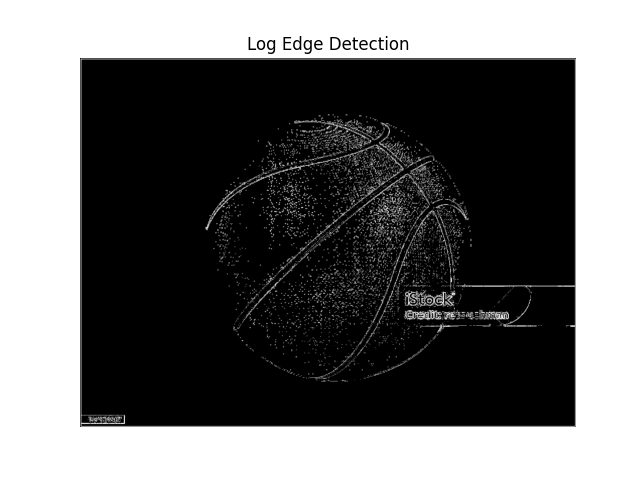
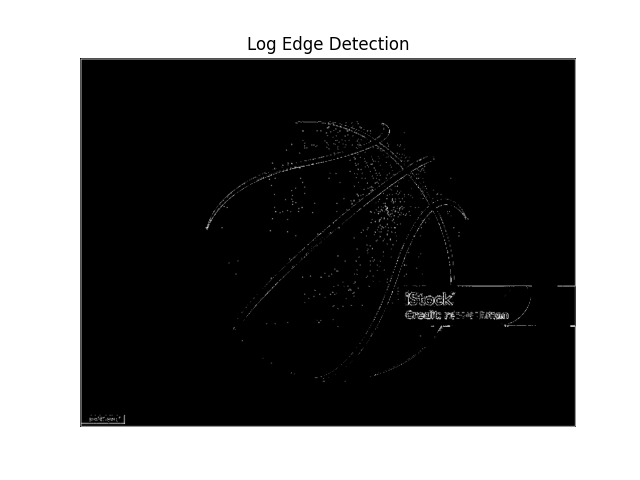
update log edge

diff --git a/2nd_assignment/log_edge.py b/2nd_assignment/log_edge.py
@@ -27,22 +27,18 @@ def log_edge(in_img_array: np.ndarray) -> np.ndarray:
     for i in range(1, result_img.shape[0] - 1):
         for j in range(1, result_img.shape[1] - 1):
             center = result_img[i, j]
-
-            # Only consider pixels with a strong enough response
             if abs(center) > threshold:
-                # Extract the 3x3 neighborhood
-                neighborhood = result_img[i - 1:i + 2, j - 1:j + 2]
-                for m in range(3):
-                    for n in range(3):
-                        if m == 1 and n == 1:
-                            continue  # Skip the center pixel
-                        neighbor_val = neighborhood[m, n]
-                        # Check for zero-crossing with sufficient difference
-                        if ((center > 0 > neighbor_val) or (center < 0 < neighbor_val)) and \
-                           (abs(center - neighbor_val) > threshold):
-                            out_img_array[i, j] = 1
-                            break
-                    if out_img_array[i, j] == 1:
+                # Symmetrical pairs of pixels around the center pixel
+                symmetric_pairs = [
+                    (result_img[i, j - 1], result_img[i, j + 1]),  # left - right
+                    (result_img[i - 1, j], result_img[i + 1, j]),  # up - down
+                    (result_img[i - 1, j - 1], result_img[i + 1, j + 1]),  # diagonally \
+                    (result_img[i - 1, j + 1], result_img[i + 1, j - 1])  # diagonally /
+                ]
+
+                for a, b in symmetric_pairs:
+                    if (a < -threshold and b > threshold) or (a > threshold and b < -threshold):
+                        out_img_array[i, j] = 1
                         break
 
     # Return the binary edge map
